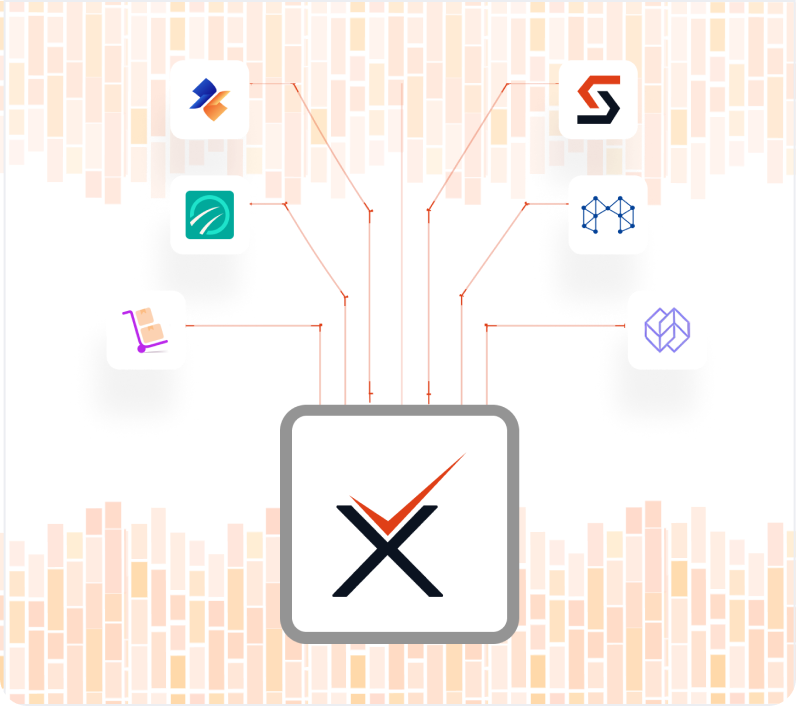
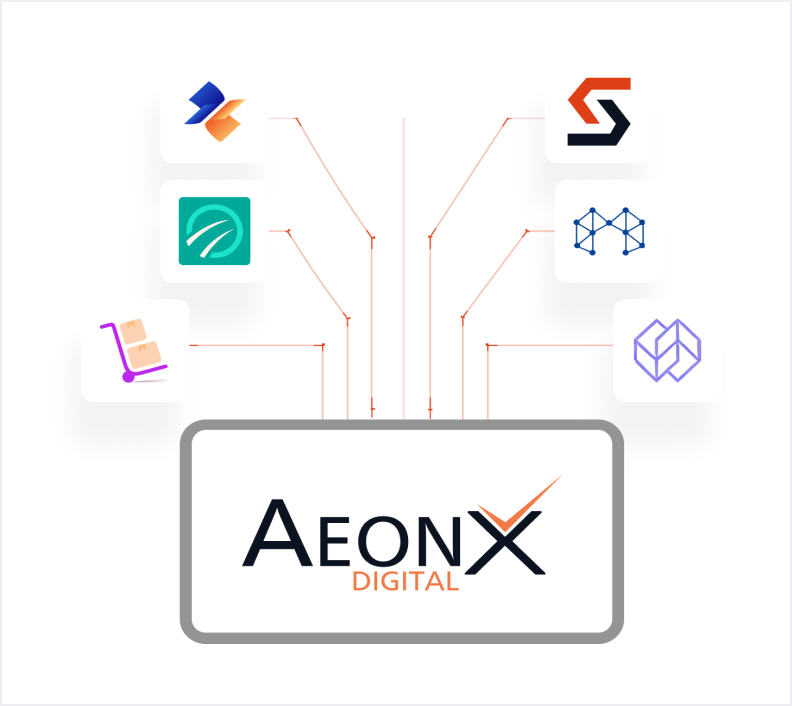
Re-pull the mega-menu featured image; rotate the partner ring on desktop too
The featured card's illustration had changed in Figma (6689:19999). Re-exported:
mean channel difference against the shipped copy is 178/255, so it was a real
change, not a re-encode. Same box (792x706 against 796x706), so nothing moves.

Desktop ring now turns like mobile. 27 baked the whole ring because its wrapper
is rotated +1.39deg and each badge carries -1.39deg to stand upright, and
emit_rotated() honours the first and drops the second -- one flat PNG cannot
orbit. New _gen.FLATTEN_ROTATION strips the tilt from that wrapper and everything
under it, so the walker places each badge by its own absoluteBoundingBox, which
Figma already reports post-rotation: twelve real, upright elements. Only the disc
keeps its tilt, and it keeps it by being baked. The orbit script now runs for both
discs rather than the mobile one alone.

Verified desktop: twelve badges, orbit matrix advancing, each badge's matrix the
exact inverse of the wrapper's, a badge travelling 13.8/32.2px in 1.5s, disc
animation-name none, zero broken images, heading still painting on top -- and
every badge still within 0.1vw of its Figma coordinate after the flattening.
Mobile re-checked after the shared change: twelve badges, still orbiting, page
height still exactly Figma's.

diff --git a/index.html b/index.html
@@ -581,7 +581,55 @@ var u=b[a.getAttribute('data-ai')];if(u)a.href=u+q;});})();</script>
 <img class="g-vec" loading="lazy" decoding="async" src="/assets/vec/5444-27236.svg" data-vec="5444:27236" alt="" role="presentation" aria-hidden="true" style="position:absolute;left:12.3698vw;top:595.2246vw;width:0.0521vw;height:43.5417vw;">
 <img class="g-vec" loading="lazy" decoding="async" src="/assets/vec/5444-27237.svg" data-vec="5444:27237" alt="" role="presentation" aria-hidden="true" style="position:absolute;left:87.4740vw;top:595.2246vw;width:0.0521vw;height:43.5417vw;">
 <div class="g-b g-clip" style="position:absolute;left:0.0000vw;top:548.8542vw;width:100.0000vw;height:46.3542vw;background-color:rgb(255,255,255);box-sizing:border-box;border:0.0521vw solid rgb(236,238,242);overflow:hidden;"><!-- ax-ptring:start -->
-<div class="g-img" data-ref="bake-ptring-desk" role="img" aria-label="Container" style="position:absolute;left:29.5500vw;top:2.7083vw;width:41.1045vw;height:41.0683vw;background-image:url(/assets/gen/bake-ptring-desk.webp);background-size:cover;background-position:center;background-repeat:no-repeat;"></div>
+<div class="g-img" data-ref="bake-ptdisc-desk" role="img" aria-label="Overlay+Shadow" style="position:absolute;left:29.6669vw;top:2.7891vw;width:40.9876vw;height:40.9876vw;background-image:url(/assets/gen/bake-ptdisc-desk.webp);background-size:cover;background-position:center;background-repeat:no-repeat;"></div>
+<div class="g-b g-clip" style="position:absolute;left:50.6339vw;top:4.2651vw;width:3.6666vw;height:3.6666vw;border-radius:26.0417vw;box-sizing:border-box;border:0.0521vw solid rgb(177,186,200);overflow:hidden;">
+<div class="g-b" style="position:absolute;left:-0.0203vw;top:-0.0760vw;width:3.6666vw;height:3.6666vw;background-color:rgb(255,255,255);"></div>
+<div class="g-img" data-ref="b06bcaa9610034aef23b78b90c284f1c917742f1" role="presentation" aria-hidden="true" style="position:absolute;left:0.6805vw;top:0.6881vw;width:2.2990vw;height:2.2990vw;background-image:url(/assets/gen/b06bcaa9610034aef23b78b90c284f1c917742f1.webp);background-size:2.2990vw 2.2990vw;background-position:-0.0000vw -0.0000vw;background-repeat:no-repeat;"></div>
+</div>
+<div class="g-b g-clip" style="position:absolute;left:59.4807vw;top:8.1276vw;width:3.6666vw;height:3.6666vw;border-radius:26.0417vw;box-sizing:border-box;border:0.0521vw solid rgb(177,186,200);overflow:hidden;">
+<div class="g-b" style="position:absolute;left:-0.0203vw;top:-0.0760vw;width:3.6666vw;height:3.6666vw;background-color:rgb(255,255,255);"></div>
+<div class="g-img" data-ref="b442b97ad21c5e00a089f57243f36edb795a5787" role="presentation" aria-hidden="true" style="position:absolute;left:0.6922vw;top:0.6998vw;width:2.2756vw;height:2.2756vw;background-image:url(/assets/gen/b442b97ad21c5e00a089f57243f36edb795a5787.webp);background-size:2.2756vw 2.2756vw;background-position:-0.0000vw -0.0000vw;background-repeat:no-repeat;mix-blend-mode:luminosity;"></div>
+</div>
+<div class="g-b g-clip" style="position:absolute;left:65.1943vw;top:17.8630vw;width:3.6666vw;height:3.6666vw;border-radius:26.0417vw;box-sizing:border-box;border:0.0521vw solid rgb(177,186,200);overflow:hidden;">
+<div class="g-b" style="position:absolute;left:-0.0203vw;top:-0.0760vw;width:3.6666vw;height:3.6666vw;background-color:rgb(255,255,255);"></div>
+<div class="g-img" data-ref="98486a04f6470a61dc7e379144f5a58793555333" role="presentation" aria-hidden="true" style="position:absolute;left:0.3119vw;top:0.3196vw;width:3.0361vw;height:3.0361vw;background-image:url(/assets/gen/98486a04f6470a61dc7e379144f5a58793555333.webp);background-size:3.0361vw 3.0361vw;background-position:-0.0000vw -0.0000vw;background-repeat:no-repeat;"></div>
+</div>
+<div class="g-b g-clip" style="position:absolute;left:64.8557vw;top:27.4125vw;width:3.6666vw;height:3.6666vw;border-radius:26.0417vw;box-sizing:border-box;border:0.0521vw solid rgb(177,186,200);overflow:hidden;">
+<div class="g-b" style="position:absolute;left:-0.0203vw;top:-0.0760vw;width:3.6666vw;height:3.6666vw;background-color:rgb(255,255,255);"></div>
+<div class="g-img" data-ref="2335eeb982fbfeb9362b65853acdacae77de6ffc" role="presentation" aria-hidden="true" style="position:absolute;left:0.3365vw;top:0.3442vw;width:2.9869vw;height:2.9869vw;background-image:url(/assets/gen/2335eeb982fbfeb9362b65853acdacae77de6ffc.webp);background-size:contain;background-position:center;background-repeat:no-repeat;"></div>
+</div>
+<div class="g-b g-clip" style="position:absolute;left:59.6620vw;top:34.7010vw;width:3.6666vw;height:3.6666vw;border-radius:26.0417vw;box-sizing:border-box;border:0.0521vw solid rgb(177,186,200);overflow:hidden;">
+<div class="g-b" style="position:absolute;left:-0.0203vw;top:-0.0760vw;width:3.6666vw;height:3.6666vw;background-color:rgb(255,255,255);"></div>
+<div class="g-img" data-ref="d991858fbdd4db64459bc288f4475a76da7dda66" role="presentation" aria-hidden="true" style="position:absolute;left:0.4051vw;top:0.4128vw;width:2.8498vw;height:2.8498vw;background-image:url(/assets/gen/d991858fbdd4db64459bc288f4475a76da7dda66.webp);background-size:2.8498vw 2.8498vw;background-position:-0.0000vw -0.0000vw;background-repeat:no-repeat;"></div>
+</div>
+<div class="g-b g-clip" style="position:absolute;left:52.7562vw;top:38.1567vw;width:3.6666vw;height:3.6666vw;border-radius:26.0417vw;box-sizing:border-box;border:0.0521vw solid rgb(177,186,200);overflow:hidden;">
+<div class="g-b" style="position:absolute;left:-0.0203vw;top:-0.0760vw;width:3.6666vw;height:3.6666vw;background-color:rgb(255,255,255);"></div>
+<div class="g-img" data-ref="079b8837d1b5c82ec0052311d53d977fa6688711" role="presentation" aria-hidden="true" style="position:absolute;left:0.4562vw;top:0.4639vw;width:2.7476vw;height:2.7476vw;background-image:url(/assets/gen/079b8837d1b5c82ec0052311d53d977fa6688711.webp);background-size:2.7476vw 2.7476vw;background-position:-0.0000vw -0.0000vw;background-repeat:no-repeat;"></div>
+</div>
+<div class="g-b g-clip" style="position:absolute;left:45.1276vw;top:38.6448vw;width:3.6666vw;height:3.6666vw;border-radius:26.0417vw;box-sizing:border-box;border:0.0521vw solid rgb(177,186,200);overflow:hidden;">
+<div class="g-b" style="position:absolute;left:-0.0203vw;top:-0.0760vw;width:3.6666vw;height:3.6666vw;background-color:rgb(255,255,255);"></div>
+<div class="g-img" data-ref="f206e7246fa94e7dfe3b231fcb1dc01c3d31c663" role="presentation" aria-hidden="true" style="position:absolute;left:0.6103vw;top:0.6180vw;width:2.4393vw;height:2.4393vw;background-image:url(/assets/gen/f206e7246fa94e7dfe3b231fcb1dc01c3d31c663.webp);background-size:contain;background-position:center;background-repeat:no-repeat;"></div>
+</div>
+<div class="g-b g-clip" style="position:absolute;left:36.7484vw;top:34.2682vw;width:3.6666vw;height:3.6666vw;border-radius:26.0417vw;box-sizing:border-box;border:0.0521vw solid rgb(177,186,200);overflow:hidden;">
+<div class="g-b" style="position:absolute;left:-0.0203vw;top:-0.0760vw;width:3.6666vw;height:3.6666vw;background-color:rgb(255,255,255);"></div>
+<div class="g-img" data-ref="631a74599c3a93e74560e27c1a8dd904ea99ef7d" role="presentation" aria-hidden="true" style="position:absolute;left:0.7723vw;top:0.7799vw;width:2.1154vw;height:2.1154vw;background-image:url(/assets/gen/631a74599c3a93e74560e27c1a8dd904ea99ef7d.webp);background-size:cover;background-position:center;background-repeat:no-repeat;"></div>
+</div>
+<div class="g-b g-clip" style="position:absolute;left:31.4219vw;top:25.8932vw;width:3.6666vw;height:3.6666vw;border-radius:26.0417vw;overflow:hidden;">
+<div class="g-b" style="position:absolute;left:-0.0203vw;top:-0.0760vw;width:3.6666vw;height:3.6666vw;background-color:rgb(177,186,200);"></div>
+<div class="g-img" data-ref="3070c46218f1ca92731c301b0fac91b182c8ef57" role="presentation" aria-hidden="true" style="position:absolute;left:-0.0033vw;top:0.0043vw;width:3.6666vw;height:3.6666vw;background-image:url(/assets/gen/3070c46218f1ca92731c301b0fac91b182c8ef57.webp);background-size:3.6666vw 3.6666vw;background-position:-0.0000vw -0.0000vw;background-repeat:no-repeat;"></div>
+</div>
+<div class="g-b g-clip" style="position:absolute;left:31.3557vw;top:16.0552vw;width:3.6666vw;height:3.6666vw;border-radius:26.0417vw;overflow:hidden;">
+<div class="g-b" style="position:absolute;left:-0.0203vw;top:-0.0760vw;width:3.6666vw;height:3.6666vw;background-color:rgb(177,186,200);"></div>
+<div class="g-img" data-ref="d49bcd1525a34e0ecd878cc1876f5180bd9e2049" role="presentation" aria-hidden="true" style="position:absolute;left:-0.0033vw;top:0.0043vw;width:3.6666vw;height:3.6666vw;background-image:url(/assets/gen/d49bcd1525a34e0ecd878cc1876f5180bd9e2049.webp);background-size:3.6666vw 3.6666vw;background-position:-0.0000vw -0.0000vw;background-repeat:no-repeat;"></div>
+</div>
+<div class="g-b g-clip" style="position:absolute;left:35.8214vw;top:8.6781vw;width:3.6666vw;height:3.6666vw;border-radius:26.0417vw;overflow:hidden;">
+<div class="g-b" style="position:absolute;left:-0.0203vw;top:-0.0760vw;width:3.6666vw;height:3.6666vw;background-color:rgb(177,186,200);"></div>
+<div class="g-img" data-ref="7cc840223304259554d559cc4d11c37b152d2344" role="presentation" aria-hidden="true" style="position:absolute;left:-0.0033vw;top:0.0043vw;width:3.6666vw;height:3.6666vw;background-image:url(/assets/gen/7cc840223304259554d559cc4d11c37b152d2344.webp);background-size:3.6666vw 3.6666vw;background-position:-0.0000vw -0.0000vw;background-repeat:no-repeat;"></div>
+</div>
+<div class="g-b g-clip" style="position:absolute;left:42.9922vw;top:4.6760vw;width:3.6666vw;height:3.6666vw;border-radius:26.0417vw;overflow:hidden;">
+<div class="g-b" style="position:absolute;left:-0.0203vw;top:-0.0760vw;width:3.6666vw;height:3.6666vw;background-color:rgb(177,186,200);"></div>
+<div class="g-img" data-ref="b8092c385813dae419a50cb29094d5d2b1628a53" role="presentation" aria-hidden="true" style="position:absolute;left:-0.0033vw;top:0.0043vw;width:3.6666vw;height:3.6666vw;background-image:url(/assets/gen/b8092c385813dae419a50cb29094d5d2b1628a53.webp);background-size:3.6666vw 3.6666vw;background-position:-0.0000vw -0.0000vw;background-repeat:no-repeat;"></div>
+</div>
 <div class="g-img" data-ref="bake-ptglow-desk" role="presentation" aria-hidden="true" style="position:absolute;left:40.1325vw;top:13.3094vw;width:19.7349vw;height:19.7349vw;background-image:url(/assets/gen/bake-ptglow-desk.webp);background-size:cover;background-position:center;background-repeat:no-repeat;"></div>
 <div class="g-t" style="position:absolute;left:39.0625vw;top:18.5297vw;width:21.8750vw;height:1.0417vw;font-family:'Nunito Sans',sans-serif;font-weight:600;font-size:0.6250vw;line-height:1.0417vw;color:rgb(41,93,160);text-align:center;white-space:nowrap;">Partner tiers
 </div>
@@ -7423,11 +7471,17 @@ document.addEventListener("DOMContentLoaded",function(){
 <script>
 (function(){
   function build(){
-    var mob=document.querySelector('.ax-mob');
-    if(!mob||mob.querySelector('.ax-ptorb')) return;
-    var disc=mob.querySelector('[data-ref="bake-ptdisc-mob"]');
+    /* Both breakpoints. The desktop ring is the same shape once _gen flattens the
+       wrapper's tilt (FLATTEN_ROTATION): twelve upright badges around a baked disc.
+       Each disc is handled independently so one missing does not stop the other. */
+    ['bake-ptdisc-mob','bake-ptdisc-desk'].forEach(function(ref){ one(ref); });
+  }
+
+  function one(ref){
+    var disc=document.querySelector('[data-ref="'+ref+'"]');
     if(!disc) return;
     var host=disc.parentElement; if(!host) return;
+    if(host.querySelector('.ax-ptorb')) return;
     function num(el,p){ var m=/(-?[\d.]+)vw/.exec(String(el.style[p]||'')); return m?parseFloat(m[1]):null; }
     var dl=num(disc,'left'), dt=num(disc,'top'), dw=num(disc,'width'), dh=num(disc,'height');
     if(dl===null||dw===null) return;

diff --git a/_gen.py b/_gen.py
@@ -36,7 +36,11 @@ def find(n, tid):
 #     the result still cannot match.
 # Same treatment as _saashero.bake() for filter fills. Applies to both dumps.
 BAKE_NODES = {
-    '6564:26541': 'bake-ptring-desk',
+    # Desktop bakes the disc only, same reasoning as mobile below: with the wrapper's
+    # tilt flattened (FLATTEN_ROTATION) the twelve badges place by their own AABB --
+    # which Figma already reports post-rotation -- so they stay real, upright elements
+    # and can orbit. Only the tilted disc+shadow needs Figma's own render.
+    '6564:26542': 'bake-ptdisc-desk',
     '6564:26580': 'bake-ptglow-desk',
     # Mobile bakes only the DISC. Unlike desktop, the mobile ring frame carries no
     # rotation and its badges are already upright (-0.006 rad), so the twelve logos
@@ -45,6 +49,31 @@ BAKE_NODES = {
     '6564:26764': 'bake-ptdisc-mob',
     '5637:48966': 'bake-ptglow-mob',
 }
+
+
+# Nodes whose rotation (and their descendants') is dropped so the walker places every
+# child by its absoluteBoundingBox, which Figma already reports post-rotation. Used for
+# the desktop partner ring: its wrapper is rotated +1.39deg and each badge carries
+# -1.39deg to stand upright, and emit_rotated() honours the first and drops the second.
+# Flattening both leaves the badges exactly where Figma draws them, upright, as real
+# elements -- the disc's tilt is not lost, it is baked into the disc's own render.
+FLATTEN_ROTATION = {'6564:26541'}
+
+
+def flatten_rotation(root):
+    """Strip `rotation` from each FLATTEN_ROTATION node and everything under it."""
+    hit = []
+    for nid in FLATTEN_ROTATION:
+        n = find(root, nid)
+        if not n:
+            continue
+        stack = [n]
+        while stack:
+            x = stack.pop()
+            if x.pop('rotation', None) is not None:
+                hit.append(x['id'])
+            stack.extend(x.get('children') or [])
+    return hit
 
 
 def bake(root):
@@ -57,6 +86,7 @@ def bake(root):
     """
     import os
     baked = []
+    flatten_rotation(root)
     for nid, ref in BAKE_NODES.items():
         n = find(root, nid)
         if not n:
